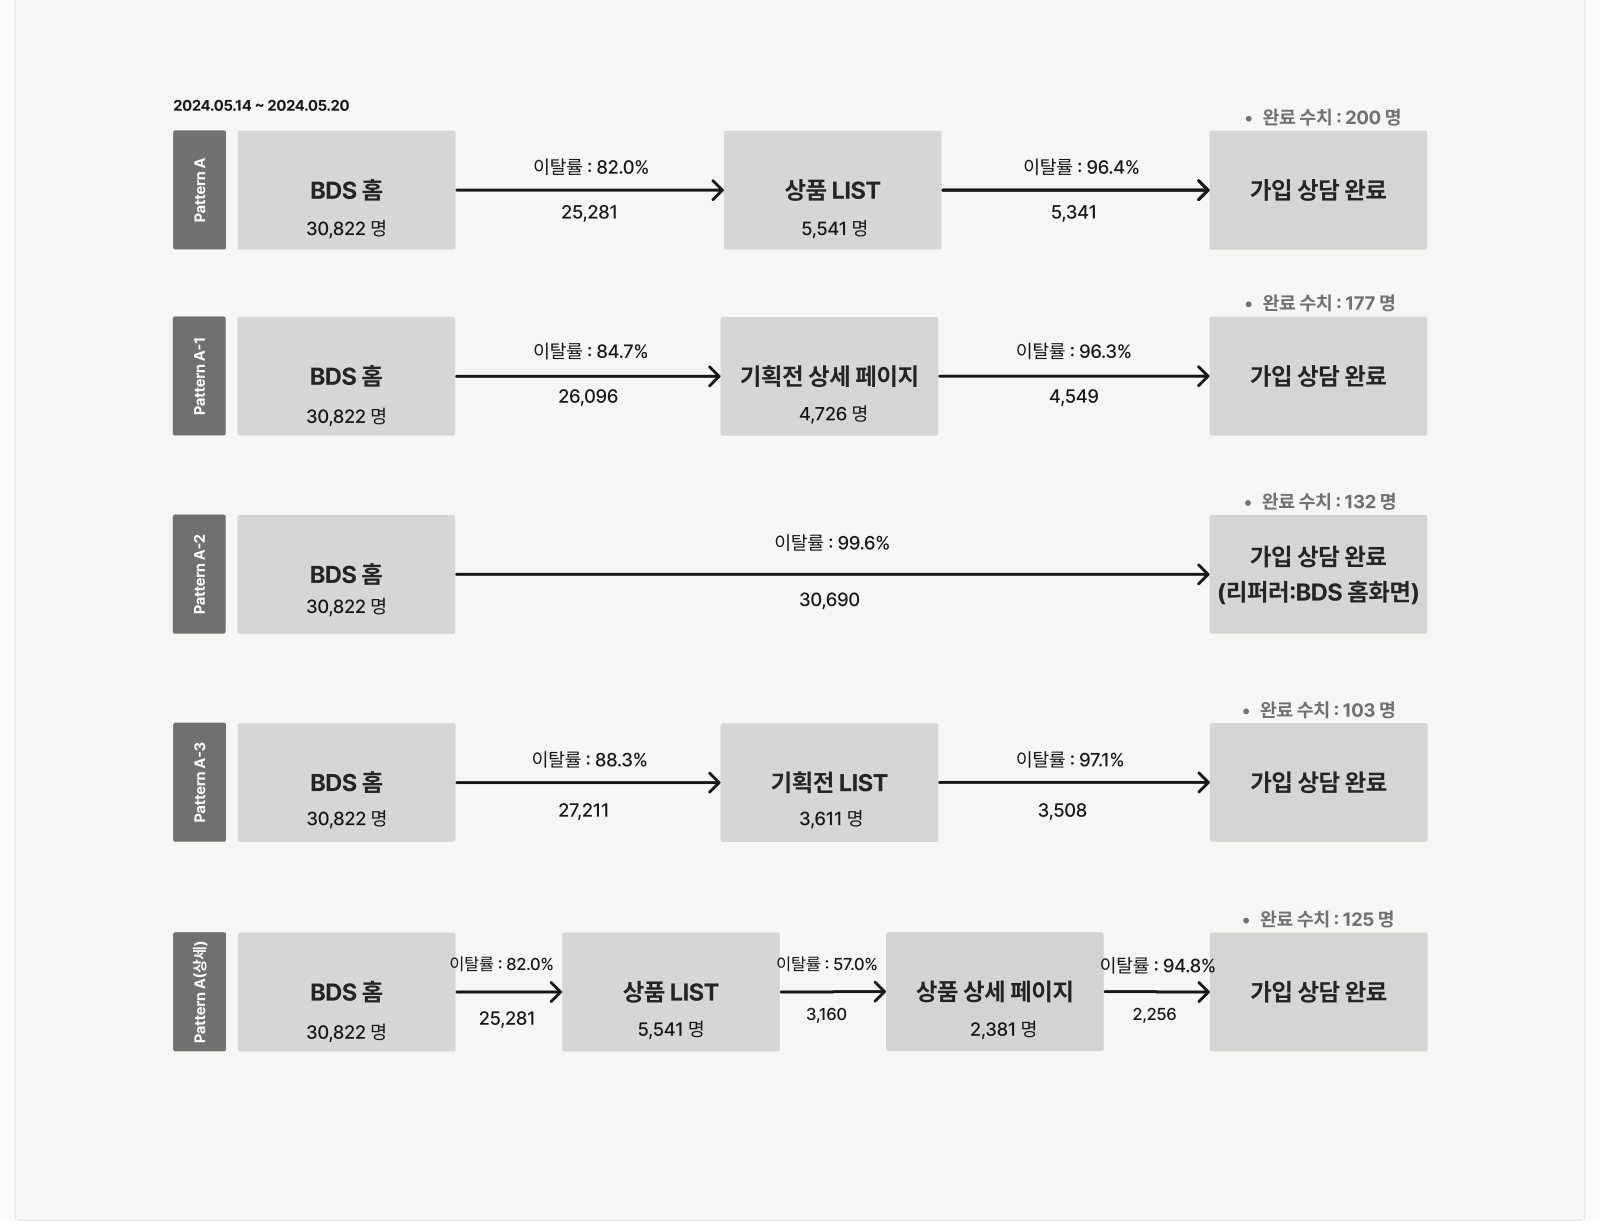
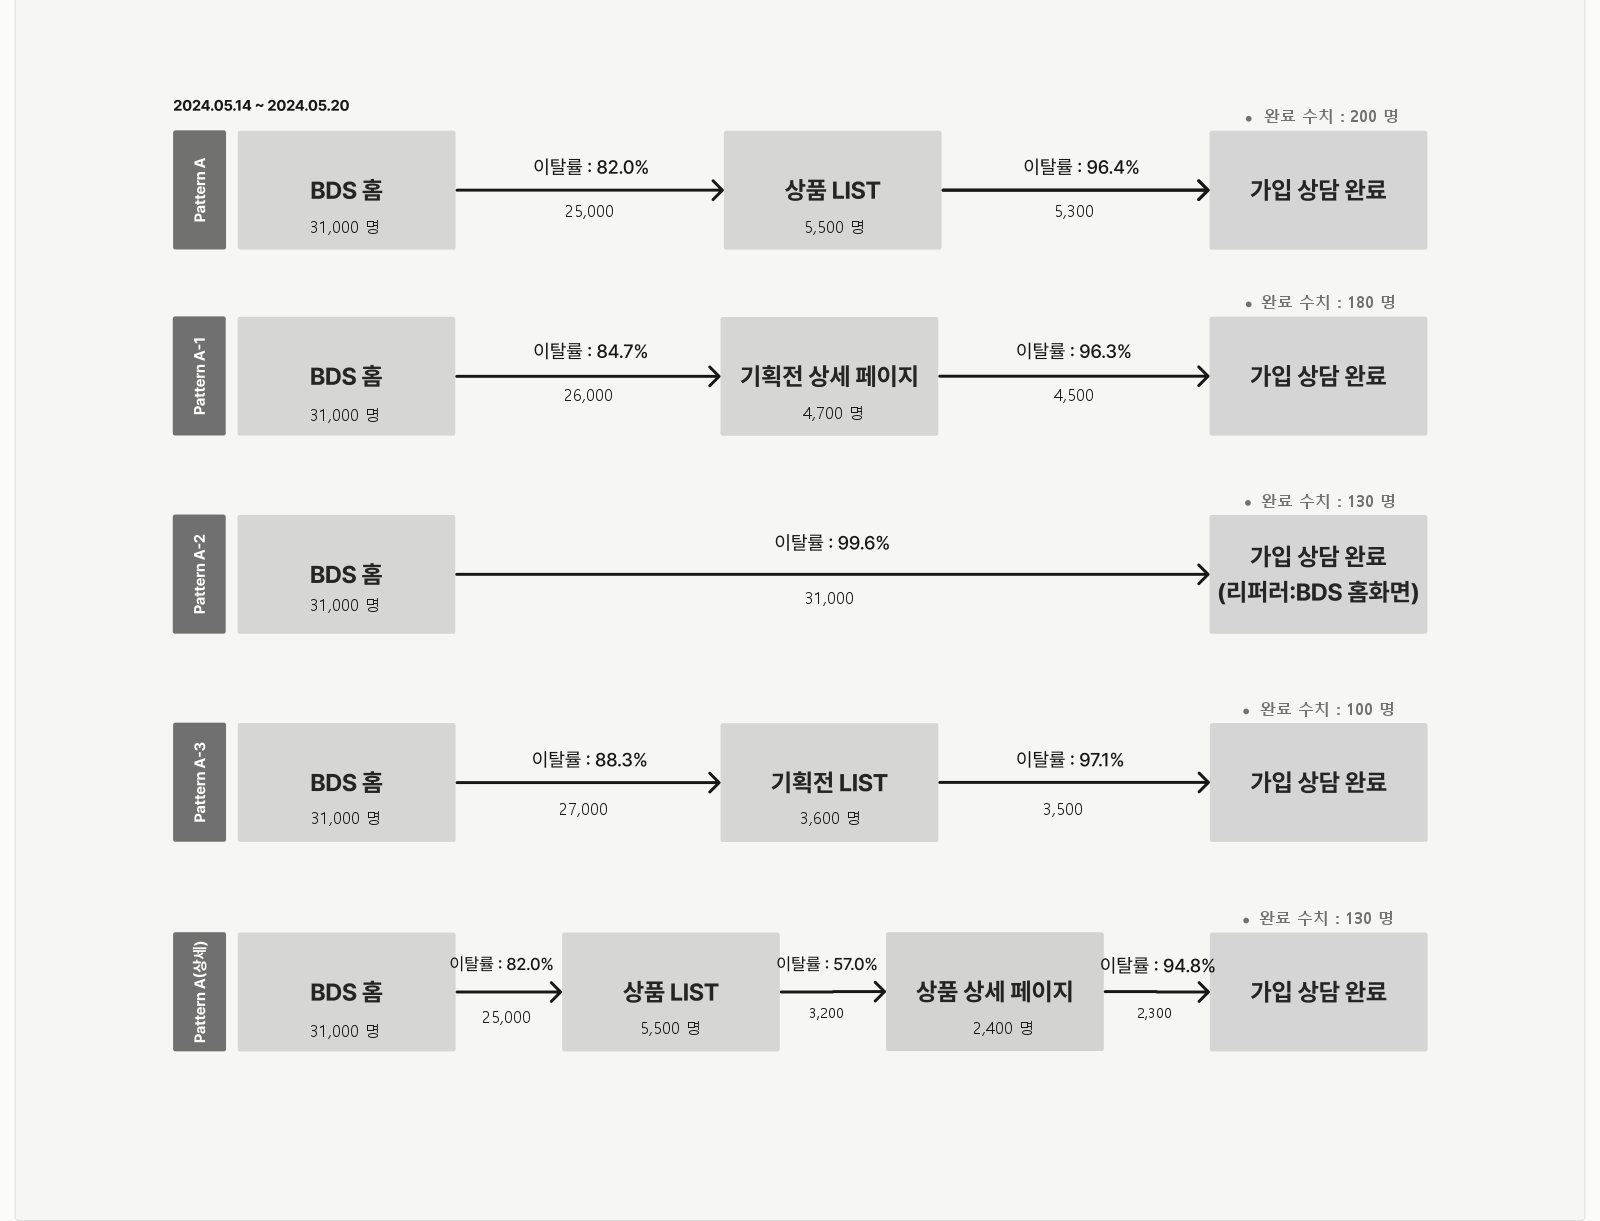
SK Broadband boards: round head counts in images, add mobile/Gallup board, security note

diff --git a/project.html b/project.html
@@ -918,7 +918,7 @@
           </div>
           <figure class="shot">
             <div class="plate" style="padding:0"><img src="img/skb-funnel-a.jpg" alt="패턴 A: BDS 홈에서 상품 LIST, 기획전 상세, 기획전 LIST를 거쳐 가입 상담 완료까지의 단계별 이탈률" width="1600" height="1221" loading="lazy"></div>
-            <figcaption><b>패턴 A · BDS 홈 유입.</b> 메인에서 시작해 상품·기획전 페이지를 거치는 경로별 이탈률이에요.</figcaption>
+            <figcaption><b>패턴 A · BDS 홈 유입.</b> 메인에서 시작해 상품·기획전 페이지를 거치는 경로별 이탈률이에요.<span class="fig-note">※ 인원 수는 보안상 반올림해 표기했습니다. 정확한 수치는 면접에서 설명드리겠습니다.</span></figcaption>
           </figure>
           <div>
             <h4>발견</h4>
@@ -930,11 +930,11 @@
           </div>
           <figure class="shot">
             <div class="plate" style="padding:0"><img src="img/skb-funnel-b.jpg" alt="패턴 B: 신규가입 기획전에서 BDS 홈, 기획전 LIST, 상품 LIST를 거쳐 가입 상담 완료까지의 단계별 이탈률" width="1600" height="1258" loading="lazy"></div>
-            <figcaption><b>패턴 B · 신규가입 기획전 유입.</b> 기획전에서 바로 상담으로 가는 경로는 이탈률이 97.6~100%였어요.</figcaption>
+            <figcaption><b>패턴 B · 신규가입 기획전 유입.</b> 기획전에서 바로 상담으로 가는 경로는 이탈률이 97.6~100%였어요.<span class="fig-note">※ 인원 수는 보안상 반올림해 표기했습니다. 정확한 수치는 면접에서 설명드리겠습니다.</span></figcaption>
           </figure>
           <figure class="shot">
             <div class="plate" style="padding:0"><img src="img/skb-funnel-c.jpg" alt="패턴 C: B world 홈에서 BDS 기획전 상세, BDS 홈, 상품 상세 등을 거쳐 가입 상담 완료까지의 단계별 이탈률" width="1600" height="1266" loading="lazy"></div>
-            <figcaption><b>패턴 C · B world 홈에서 B directshop으로 이동.</b> 두 사이트를 오가는 경로의 단계별 이탈률이에요.</figcaption>
+            <figcaption><b>패턴 C · B world 홈에서 B directshop으로 이동.</b> 두 사이트를 오가는 경로의 단계별 이탈률이에요.<span class="fig-note">※ 인원 수는 보안상 반올림해 표기했습니다. 정확한 수치는 면접에서 설명드리겠습니다.</span></figcaption>
           </figure>
           <div>
             <h4>성과</h4>
@@ -983,6 +983,10 @@
           <figure class="shot">
             <div class="plate" style="padding:0"><img src="img/skb-seg-1-channel.jpg" alt="BW/BDS 유입 채널 비율과 채널별 찜하기, 장바구니, 가입상담, 바로가입 비율 원그래프" width="1600" height="1760" loading="lazy"></div>
             <figcaption><b>유입 경로 분석.</b> 네 가지 필요 행동 모두에서 naver / paid_brandsearch 비중이 가장 커서 세그먼트의 기준 채널로 잡았어요.</figcaption>
+          </figure>
+          <figure class="shot">
+            <div class="plate" style="padding:0"><img src="img/skb-seg-2-mobile.jpg" alt="분기별 활성 사용자 대비 모바일 사용자 비율 표와 그래프, 2024년 7월 한국갤럽 인구통계별 스마트폰 운영체제 비율" width="1600" height="1750" loading="lazy"></div>
+            <figcaption><b>모바일 사용자 분석.</b> 이용의 약 78%가 모바일이고, OS에 따라 연령대가 뚜렷이 갈려(한국갤럽 2024.7) 모바일 OS를 세그먼트 기준으로 삼았어요.<span class="fig-note">※ 인원 수는 보안상 반올림해 표기했습니다. 정확한 수치는 면접에서 설명드리겠습니다.</span></figcaption>
           </figure>
           <div>
             <h4>결과</h4>

diff --git a/style.css b/style.css
@@ -534,3 +534,4 @@ footer .wrap { font-size: 0.8125rem; }
 .bars.k-above { gap: 0.9rem; }
 .bars.k-above .bar { grid-template-columns: minmax(0, 1fr) 4.5rem; row-gap: 0.35rem; }
 .bars.k-above .bar .k { grid-column: 1 / -1; white-space: nowrap; overflow: hidden; text-overflow: ellipsis; color: var(--fg); }
+figure.shot figcaption .fig-note { display: block; margin-top: 0.3rem; font-size: 0.8125rem; color: var(--faint); }
